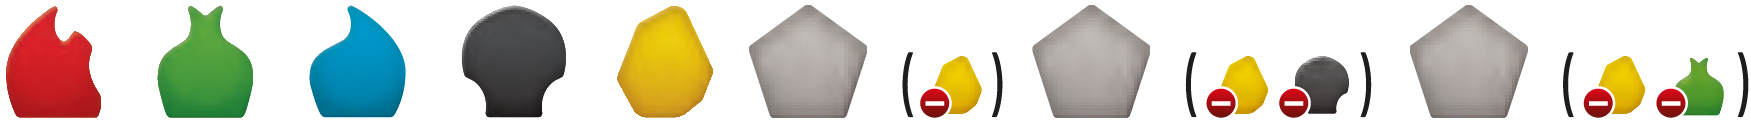
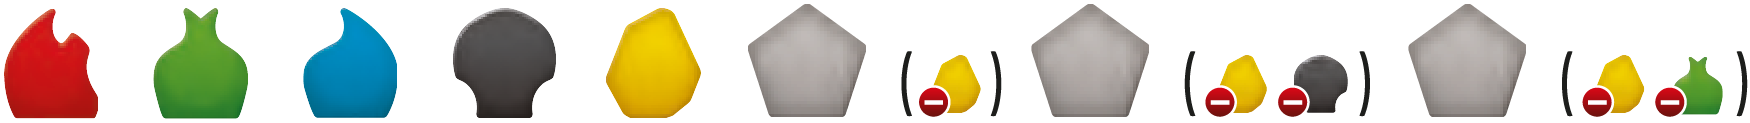
placement cost wip

diff --git a/src/client/components/play/game/Board.js b/src/client/components/play/game/Board.js
@@ -872,7 +872,7 @@ class ResArcanaBoard extends Component {
               <div className="inline-text">Select </div>
               <div className="inline-text">
                 <div className="collect-option">
-                  <div className="inline-essence essence any-but-gold small">2</div>
+                  <div className="essence any-but-gold small">2</div>
                 </div>
               </div>
             </h5>
@@ -889,16 +889,22 @@ class ResArcanaBoard extends Component {
           break
         case 'PLACE_ARTEFACT':
           let essences = selectedComponent.costEssenceList.map((essence) => {
-            return <div className={'inline-essence essence ' + (essence.type)}>{essence.quantity}</div>
+            let singleEssence = selectedComponent.costEssenceList.length === 1 ? ' single-essence' : ''
+            let payOk = <div className="pay-ok"></div>
+            return <div className={'essence ' + (essence.type) + singleEssence}>{payOk}{essence.quantity}</div>
           });
-          actionPanel = <div className="flex-row">
+          actionPanel = <div className="component-cost flex-row">
             <div className="cost-frame-v">
               <div className="cost-frame-content">
                 {essences}
               </div>
             </div>
             <div className="cost-container">
-              <EssencePicker essencePickerType={'any'} essenceNumber={2}/>
+              <h5>Pay with:</h5>
+              <h5 className="cost-source"><div className="essence any small">-1</div><div className="inline-text"> from Artificier </div></h5>
+              <div className="">
+                <EssencePicker essencePickerType={'any'} essenceNumber={2}/>
+              </div>
             </div>
           </div>
           break
@@ -911,11 +917,11 @@ class ResArcanaBoard extends Component {
         </div>
         <div className="option small" size="sm" onClick={() => selectAction('DISCARD_FOR_2E')}>
           <div className="inline-text">Discard for </div>
-          <div className="inline-essence essence any-but-gold small">2</div>
+          <div className="essence any-but-gold small">2</div>
         </div>
         <div className="option small" size="sm" onClick={() => {resetEssencePickerSelection(); addToEssencePickerSelection('gold'); selectAction('DISCARD_FOR_1G')}}>
           <div className="inline-text">Discard for </div>
-          <div className="inline-essence essence gold small">1</div>
+          <div className="essence gold small">1</div>
         </div>
       </>
     }
@@ -938,9 +944,10 @@ class ResArcanaBoard extends Component {
     let costEssenceList = selectedComponent.costEssenceList ? selectedComponent.costEssenceList : [{type: 'gold', quantity: 4}]
 
     let costFrameEssenceList = costEssenceList.map((essence) => {
-      return <div className={'inline-essence essence ' + (essence.type)}>{essence.quantity}</div>
+      let singleEssence = costEssenceList.length === 1 ? ' single-essence' : ''
+      return <div key={essence.type} className={'essence ' + (essence.type) + singleEssence}>{essence.quantity}</div>
     });
-    let actionPanel = <div className="cost-frame-v">
+    let componentCost = <div className="cost-frame-v">
       <div className="cost-frame-content">
         {costFrameEssenceList}
       </div>
@@ -966,9 +973,9 @@ class ResArcanaBoard extends Component {
       <div className="action-container">
         <div className="action-component">
           {this.renderGameComponent(selectedComponent)}
-          {actionPanel && <div className="action-list">
-            {actionPanel}
-          </div>}
+          <div className="component-cost">
+            {componentCost}
+          </div>
         </div>
       </div>
       {selectedComponent && directive}
@@ -982,13 +989,41 @@ class ResArcanaBoard extends Component {
       return this.renderGameComponent(magicItem, {onClick: (event) => this.handleClick(event, magicItem), onDoubleClick: () => this.pass(magicItem.id)})
     })
     return <>
-      <div className="action-container">
+      <div className="action-container v-centered">
         {magicItems}
       </div>
       {directive}
     </>
   }
   
+  /*canPayCost = (essenceToPayList, ) => {
+    const { G } = this.props
+    let canPay = true
+    let sumDiscount
+    let availableEssencePool = []//copy(playerEssencePool)
+    let anyEssencePool
+    let minEssencePayList = [] // List of the minimum the player must pay for each essences.
+    let legalEssenceList = [] // List of legal essences the player can use to pay the cost.
+
+    // Check if there are enougth gold to pay
+    let goldToPay = essenceToPayList.filter((essence) => essence.type === 'gold')
+    if (goldToPay.length > 0 && goldToPay[0].quantity > availableEssencePool['gold']){
+        return {value: false}
+    } else {
+      let excedentGold = availableEssencePool['gold'] - goldToPay.quantity ? goldToPay.quantity : 0
+      anyEssencePool = excedentGold >= 0 ? excedentGold : 0
+      minEssencePayList['gold'] = goldToPay.quantity
+    }
+
+    let essences = essenceToPayList.filter((essence) => essence.type !== 'gold' && essence.type !== 'any')
+    essences.forEach((essenceToPay) => {
+      //
+    })
+    // Sum discount ability
+
+    return { value: canPay }
+  }*/
+
   renderCurrentAction = () => {
     const { essencePickerSelection, profile, selectAction, selectedAction, selectedComponent } = this.props
 

diff --git a/src/client/components/play/game/essence.scss b/src/client/components/play/game/essence.scss
@@ -13,22 +13,23 @@
   width: 40px;
   margin: 0 2px;
   padding-top: 26px;
+  position: relative;
   vertical-align: top;
   
   &.elan {
     background-position: 4px 5px;
   }
   &.life {
-    background-position: -43px 5px;
+    background-position: -42px 5px;
   }
   &.calm {
-    background-position: -90px 5px;
+    background-position: -89px 5px;
   }
   &.death {
-    background-position: -138px 5px;
+    background-position: -135px 5px;
   }
   &.gold {
-    background-position: -185px 5px;
+    background-position: -182px 5px;
   }
   &.any {
     background-position: -205px 7px;
@@ -66,16 +67,16 @@
       background-position: 3px 0;
     }
     &.life {
-      background-position: -34px 0;
+      background-position: -33px 0;
     }
     &.calm {
-      background-position: -71px 0;
+      background-position: -70px 0;
     }
     &.death {
-      background-position: -109px 0;
+      background-position: -107px 0;
     }
     &.gold {
-      background-position: -146px 0;
+      background-position: -144px 0;
     }    
     &.any {
       background-position: -168px 0;
@@ -196,6 +197,19 @@
   height: 16px;
   width: 16px;
   background-image: url("../../../assets/image/delete.png");
+  background-size: 14px;
+  background-position: 0 0;
+  background-repeat: no-repeat;
+}
+
+.pay-ok {
+  display: block;
+  position: absolute;
+  left: 2px;
+  bottom: 0;
+  height: 16px;
+  width: 16px;
+  background-image: url("../../../assets/image/tick.png");
   background-size: 14px;
   background-position: 0 0;
   background-repeat: no-repeat;

diff --git a/src/client/components/play/game/board.scss b/src/client/components/play/game/board.scss
@@ -182,6 +182,11 @@
         display: inline-block;
         align-self: center;
         flex: 1;
+
+        > div {
+          display: inline-block;
+          vertical-align: top;
+        }
       }
 
       &.split {
@@ -191,8 +196,17 @@
           flex-direction: row-reverse;
         }
       }
+
+      .component-cost {
+        margin: 20px 8px 0 8px;
+      }
+    }
+    
+    &.small .action-container .component-cost {
+      margin: 8px 8px 0 8px;
     }
   }
+  
 
   .button-list {
     flex-direction: row;
@@ -510,7 +524,7 @@
 }
 
 .cost-frame-v {
-  display: inline-block;
+  display: flex;
   background-image: url("../../../assets/image/cost-frame-content-v.png");
   background-repeat: repeat-y;
   background-size: 36px 1px;
@@ -519,6 +533,10 @@
   padding-left: -2px;
   width: 38px;
   position: relative;
+
+  .single-essence.essence {
+    margin-left: 4px;
+  }
 
   .cost-frame-content {
     display: inline-block;
@@ -560,6 +578,14 @@
   display: inline-block;
   flex: 1;
   text-align: left;
+  margin-left: 20px;
+  
+  h5 {
+    text-align: left;
+  }
+  .cost-source {
+    margin-left: 8px;
+  }
 }
 
 .game-icon {

diff --git a/src/client/components/play/game/CollectComponent.js b/src/client/components/play/game/CollectComponent.js
@@ -235,7 +235,6 @@ class CollectComponent extends Component {
     let validSpecific = false
 
     const ready = status === 'READY'
-    console.log('component',component);
     if (component.hasSpecificCollectAbility) {
       switch (component.id) {
         case 'automate':
